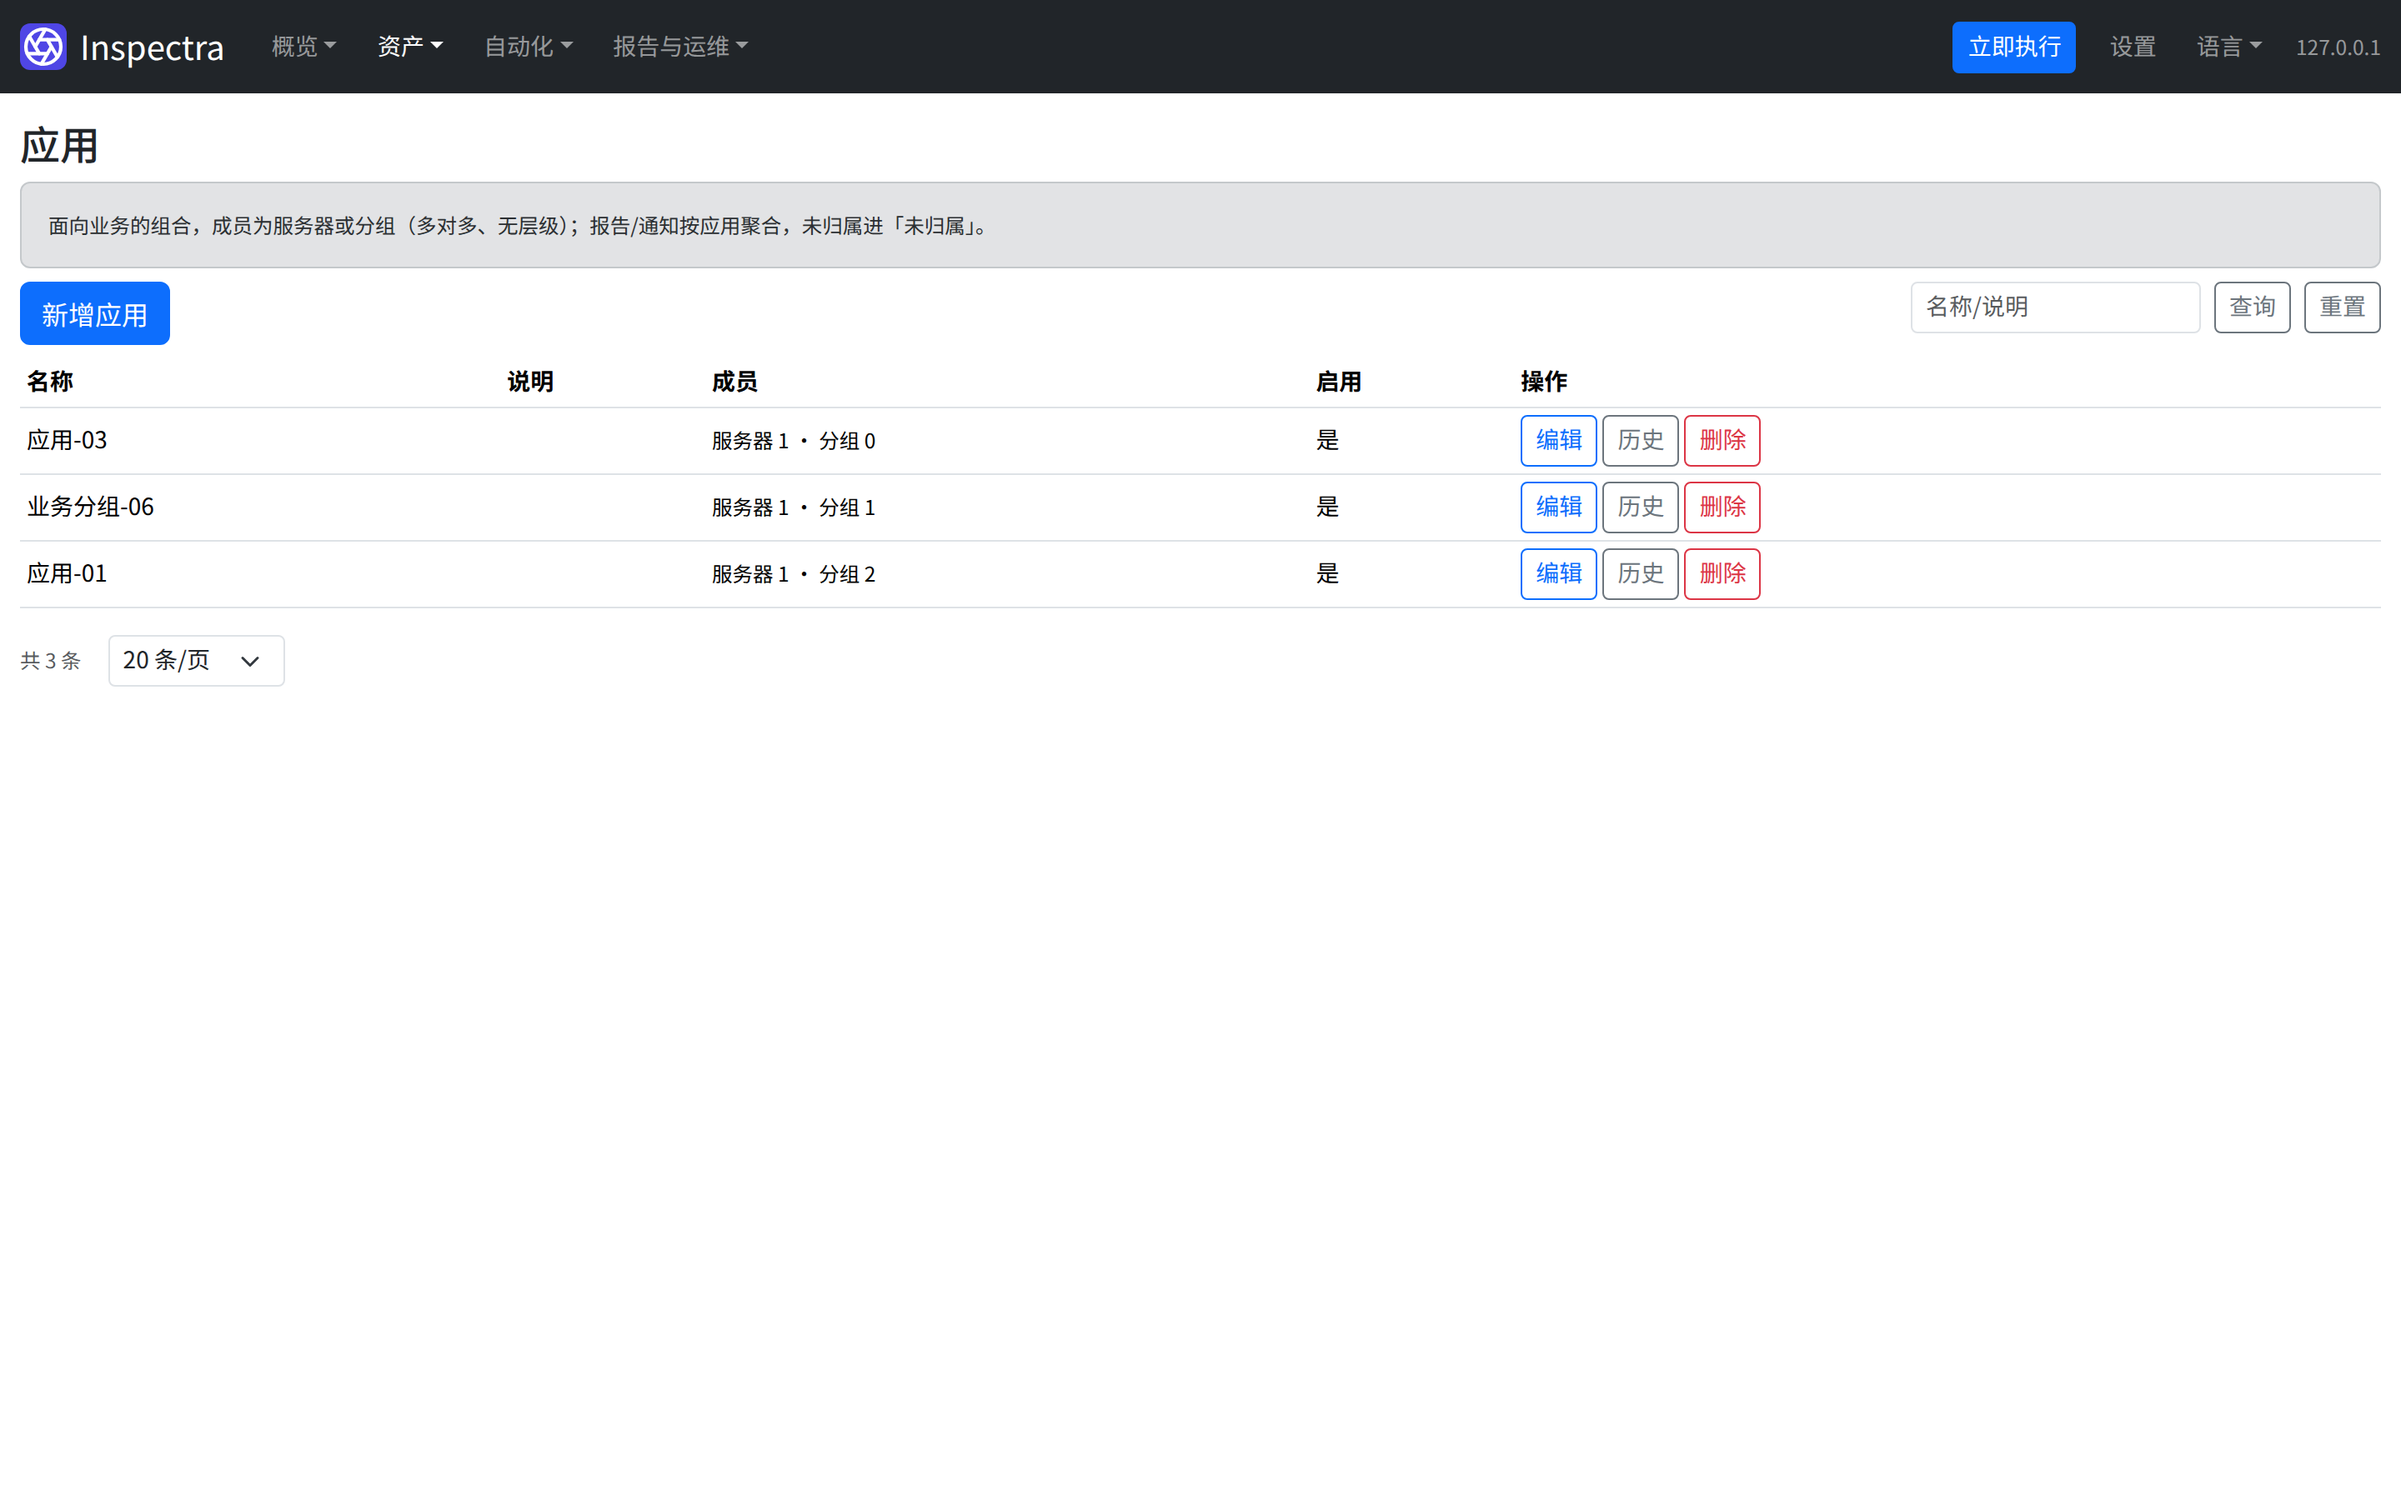
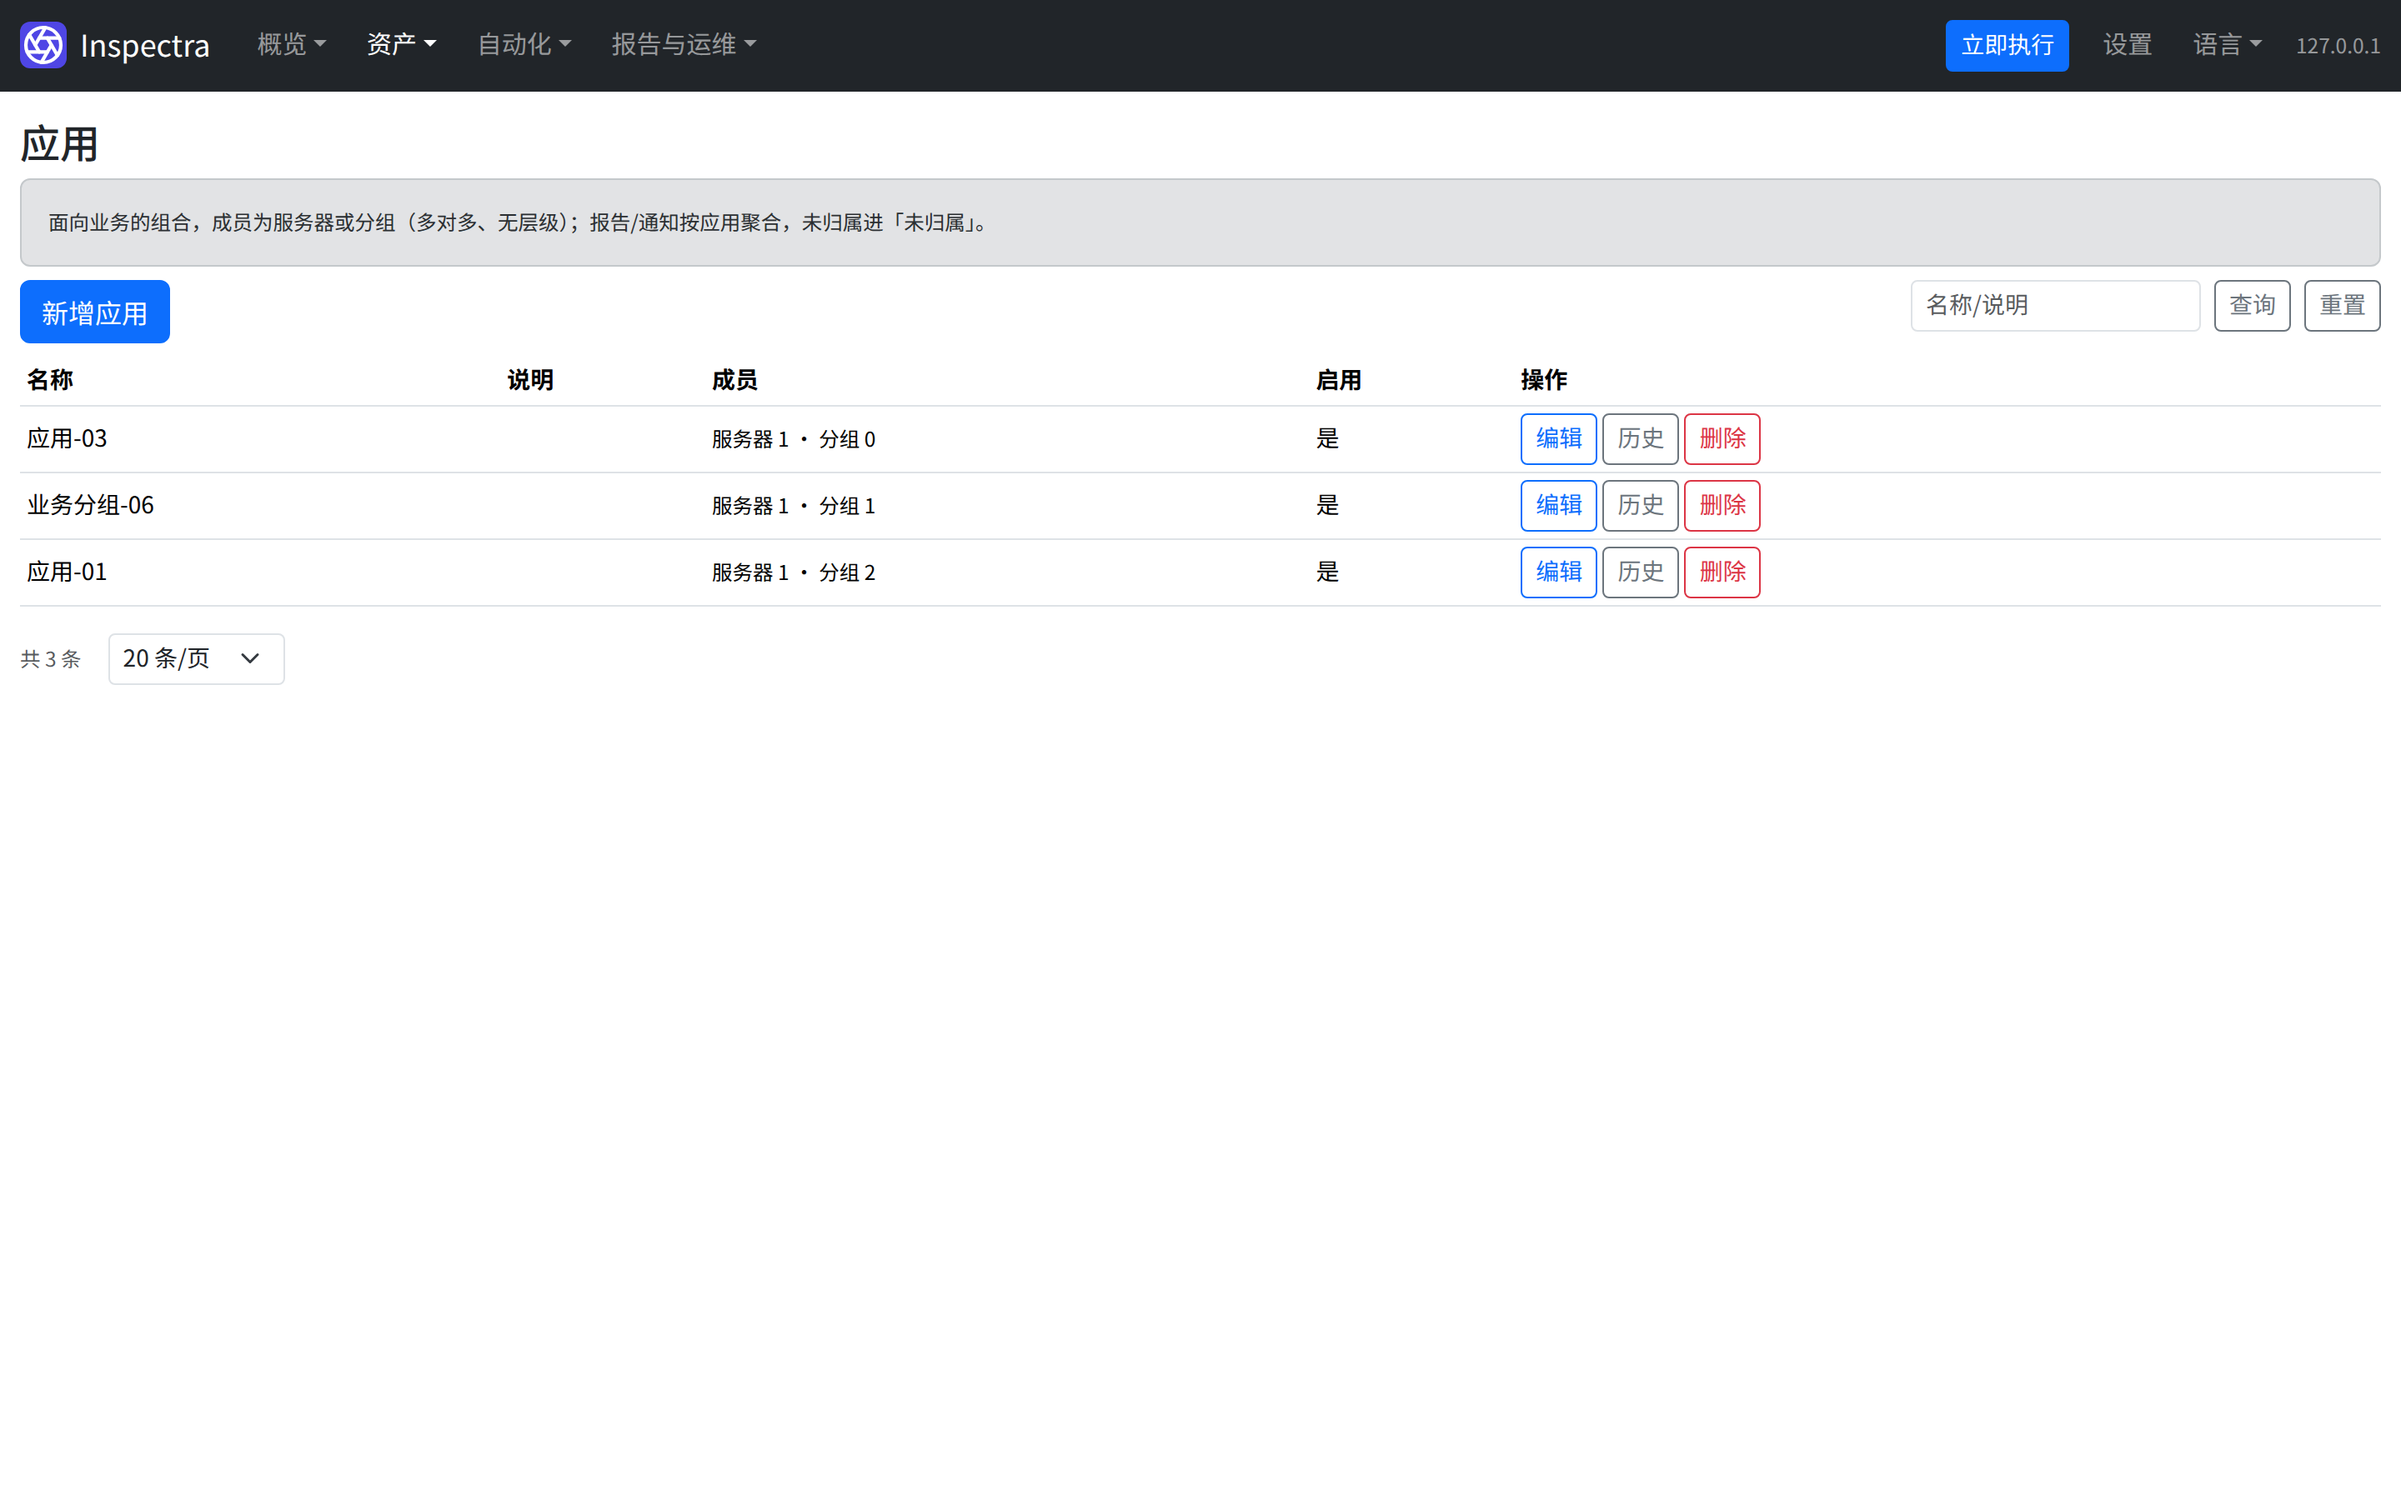
页面标题改为语义 h1（外观不变）并将顶部导航字号调至 15px / Use semantic h1 for page titles and bump top-nav font to 15px
- 26 个模板的页面标题由 <h4> 改为 <h1 class="h4">（语义修正，视觉尺寸不变）
- 顶部导航字号 14→15px、品牌 1.125rem；导航下拉项同步 15px
- 重新采集 README 界面截图 docs/images/{zh,en}

- Change page titles from <h4> to <h1 class="h4"> across 26 templates (semantic fix, same visual size)
- Bump top-nav font 14->15px and brand to 1.125rem; navbar dropdown items follow at 15px
- Regenerate README screenshots under docs/images/{zh,en}

diff --git a/web/templates/script_detail.html b/web/templates/script_detail.html
@@ -1,13 +1,13 @@
 {% extends "base.html" %}
 {% block title %}{{ script.lname or script.name or t('scripts.new') }}{% endblock %}
 {% block content %}
-<h4 class="d-flex align-items-center gap-2 flex-wrap">
+<h1 class="h4 d-flex align-items-center gap-2 flex-wrap">
   <span>{{ script.lname or script.name or t('scripts.new') }}</span>
   <span class="badge bg-secondary" id="kindBadge">{{ script.kind or 'shell' }}</span>
   {% if script.seed_key %}<span class="badge bg-light text-secondary border" title="{{ t('scripts.builtin_hint') }}">{{ t('scripts.builtin') }}</span>{% endif %}
   {% if script.dirty %}<span class="badge bg-warning text-dark" title="{{ t('scripts.modified_hint') }}">{{ t('scripts.modified') }}</span>{% endif %}
   {% if script.id %}<span class="text-muted small ms-auto">#{{ script.id }}</span>{% endif %}
-</h4>
+</h1>
 {% if meta_warnings %}
 <div class="alert alert-warning py-1 px-2 small mb-2">
   <strong>{{ t('scripts.meta_warning') }}</strong>：{{ meta_warnings | join('；') }}

diff --git a/web/templates/chatbot.html b/web/templates/chatbot.html
@@ -2,9 +2,9 @@
 {% block title %}{{ t('chatbot.title') }}{% endblock %}
 {% block content %}
 <div class="d-flex justify-content-between align-items-center flex-wrap gap-2 mb-2">
-  <h4 class="mb-0">{{ t('chatbot.title') }} <span class="badge bg-secondary">{{ t('chatbot.readonly') }}</span>
+  <h1 class="h4 mb-0">{{ t('chatbot.title') }} <span class="badge bg-secondary">{{ t('chatbot.readonly') }}</span>
     {% if model_ok %}<span class="badge bg-info text-dark">{{ t('chatbot.model', name=model_label) }}</span>{% endif %}
-  </h4>
+  </h1>
   <form method="post" action="{{ url_for('chatbot_clear') }}">
     <input type="hidden" name="csrf_token" value="{{ csrf_token }}">
     <button class="btn btn-sm btn-outline-secondary">{{ t('chatbot.clear') }}</button>

diff --git a/web/templates/group_detail.html b/web/templates/group_detail.html
@@ -1,12 +1,12 @@
 {% extends "base.html" %}
 {% block title %}{{ display_name }} {{ t('common.version_history') }}{% endblock %}
 {% block content %}
-<h4 class="d-flex align-items-center gap-2 flex-wrap">
+<h1 class="h4 d-flex align-items-center gap-2 flex-wrap">
   <span>{{ display_name }}</span>
   <span class="badge bg-secondary">{{ label }}</span>
   <span class="text-muted">{{ t('common.version_history') }}</span>
   <span class="text-muted small ms-auto">#{{ object_id }}</span>
-</h4>
+</h1>
 <table class="table table-sm">
   <thead><tr><th>{{ t('common.version') }}</th><th>{{ t('common.action') }}</th><th>{{ t('common.time') }}</th><th>{{ t('common.operator_ip') }}</th><th>{{ t('common.note') }}</th><th></th></tr></thead>
   <tbody>

diff --git a/web/templates/script_history.html b/web/templates/script_history.html
@@ -1,12 +1,12 @@
 {% extends "base.html" %}
 {% block title %}{{ display_name }} {{ t('common.version_history') }}{% endblock %}
 {% block content %}
-<h4 class="d-flex align-items-center gap-2 flex-wrap">
+<h1 class="h4 d-flex align-items-center gap-2 flex-wrap">
   <span>{{ display_name }}</span>
   <span class="badge bg-secondary">{{ label }}</span>
   <span class="text-muted">{{ t('common.version_history') }}</span>
   <span class="text-muted small ms-auto">#{{ object_id }}</span>
-</h4>
+</h1>
 <table class="table table-sm">
   <thead><tr><th>{{ t('common.version') }}</th><th>{{ t('common.action') }}</th><th>{{ t('common.time') }}</th><th>{{ t('common.operator_ip') }}</th><th>{{ t('common.note') }}</th><th></th></tr></thead>
   <tbody>

diff --git a/web/templates/backup_detail.html b/web/templates/backup_detail.html
@@ -2,13 +2,13 @@
 {% from "_macros.html" import json_view %}
 {% block title %}{{ t('common.version') }} #{{ version.id }}{% endblock %}
 {% block content %}
-<h4 class="d-flex align-items-center gap-2 flex-wrap">
+<h1 class="h4 d-flex align-items-center gap-2 flex-wrap">
   <span>{{ display_name or t('backups.deleted_obj') }}</span>
   <span class="badge bg-secondary">{{ t('type.' ~ version.object_type) }}</span>
   <span class="badge bg-info text-dark">{{ t('audit.' ~ version.action) }}</span>
   <span class="text-muted small">v{{ version.version }}</span>
   <span class="text-muted small ms-auto">#{{ version.id }}</span>
-</h4>
+</h1>
 
 {% if missing %}
 <div class="alert alert-danger">

diff --git a/web/templates/backup_compare.html b/web/templates/backup_compare.html
@@ -2,13 +2,13 @@
 {% from "_macros.html" import json_view %}
 {% block title %}{{ t('backup_compare.title') }}{% endblock %}
 {% block content %}
-<h4 class="d-flex align-items-center gap-2 flex-wrap">
+<h1 class="h4 d-flex align-items-center gap-2 flex-wrap">
   <span>{{ t('backup_compare.title') }}</span>
   <span class="text-muted">A：{{ name_a }} <span class="small">v{{ va.version }}</span></span>
   <span class="text-muted">↔</span>
   <span class="text-muted">B：{{ name_b }} <span class="small">v{{ vb.version }}</span></span>
   <span class="text-muted small ms-auto">#{{ va.id }} ↔ #{{ vb.id }}</span>
-</h4>
+</h1>
 
 <div class="row g-3">
   <div class="col-lg-6">

diff --git a/web/templates/audit_logs.html b/web/templates/audit_logs.html
@@ -2,7 +2,7 @@
 {% from "_macros.html" import pager %}
 {% block title %}{{ t('nav.audit') }}{% endblock %}
 {% block content %}
-<h4>{{ t('nav.audit') }}</h4>
+<h1 class="h4">{{ t('nav.audit') }}</h1>
 <div class="alert alert-secondary small mb-2">{{ t('audit.note') }} <a href="{{ url_for('reports') }}">{{ t('nav.reports') }}</a>。</div>
 {% set mods = {'ip': request.args.get('ip',''), 'target_type': request.args.get('target_type',''), 'q': request.args.get('q',''), 'status': request.args.get('status',''), 'start': request.args.get('start',''), 'end': request.args.get('end','')} %}
 {% set export_action = cur_action if cur_action not in ('', 'need') else '' %}

diff --git a/web/static/style.css b/web/static/style.css
@@ -1,9 +1,10 @@
 body { font-size: 14px; }
 
 /* 顶部导航：标签不换行、分组间距适中；下拉字号与导航一致；客户端 IP 仅宽屏显示 */
-.navbar .nav-link { white-space: nowrap; }
+.navbar .nav-link { white-space: nowrap; font-size: .9375rem; }
 .navbar .navbar-nav .nav-link { padding-left: .75rem; padding-right: .75rem; }
-.navbar .dropdown-menu { --bs-dropdown-font-size: .875rem; }
+.navbar .navbar-brand { font-size: 1.125rem; }
+.navbar .dropdown-menu { --bs-dropdown-font-size: .9375rem; }
 .navbar-ip { display: none; }
 @media (min-width: 1400px) { .navbar-ip { display: inline; } }
 .report-pre {

diff --git a/web/templates/script_usage.html b/web/templates/script_usage.html
@@ -3,11 +3,11 @@
 {% block title %}{{ script.lname }} - {{ t('scripts.usage') }}{% endblock %}
 {% block content %}
 {% set back_url = back or url_for('scripts') %}
-<h4 class="d-flex align-items-center gap-2 flex-wrap mb-2">
+<h1 class="h4 d-flex align-items-center gap-2 flex-wrap mb-2">
   <span>{{ script.lname }}</span>
   <span class="text-muted">{{ t('scripts.usage') }}</span>
   <span class="text-muted small ms-auto">#{{ script.id }}</span>
-</h4>
+</h1>
 
 <div class="alert alert-secondary small">{{ t('scripts.usage_hint', n=usage_total) }}</div>
 

diff --git a/web/templates/reports.html b/web/templates/reports.html
@@ -3,7 +3,7 @@
 {% block title %}{{ t('reports.title') }}{% endblock %}
 {% block content %}
 <div class="d-flex align-items-center gap-2 flex-wrap">
-  <h4 class="mb-0">{{ t('reports.title') }}</h4>
+  <h1 class="h4 mb-0">{{ t('reports.title') }}</h1>
   </div>
 <div class="alert alert-secondary small my-2">{{ t('reports.note') }} <a href="{{ url_for('audit_logs') }}">{{ t('nav.audit') }}</a>。</div>
 {% set cn = {'success': t('reports.success'), 'partial': t('reports.partial'), 'error': t('reports.error'), 'running': t('reports.running')} %}

diff --git a/web/templates/servers.html b/web/templates/servers.html
@@ -3,7 +3,7 @@
 {% block title %}{{ t('nav.servers') }}{% endblock %}
 {% block content %}
 {% set back_url = url_for('servers', q=q, group_id=group_id, enabled=enabled, health=health, page=page, per_page=per_page) %}
-<h4>{{ t('nav.servers') }}</h4>
+<h1 class="h4">{{ t('nav.servers') }}</h1>
 <div class="alert alert-secondary small mb-2">{{ t('servers.alert') }}</div>
 <div class="d-flex justify-content-between align-items-start flex-wrap gap-2 mb-2">
   <a class="btn btn-primary" href="{{ url_for('server_new') }}">{{ t('servers.new') }}</a>

diff --git a/web/templates/report_detail.html b/web/templates/report_detail.html
@@ -21,12 +21,12 @@
 
 <div class="row g-3">
   <div class="col-12" id="contentCol">
-    <h4 class="d-flex align-items-center gap-2 flex-wrap">
+    <h1 class="h4 d-flex align-items-center gap-2 flex-wrap">
       <span>{{ t('reports.title') }}</span>
       {{ status_badge(run.status) }}
       <span class="text-muted small">{{ run.started|local }}</span>
       <span class="text-muted small ms-auto">#{{ run.id }}</span>
-    </h4>
+    </h1>
 
     <div class="card mb-3"><div class="card-body py-2">
       <div class="row g-2 text-center">
